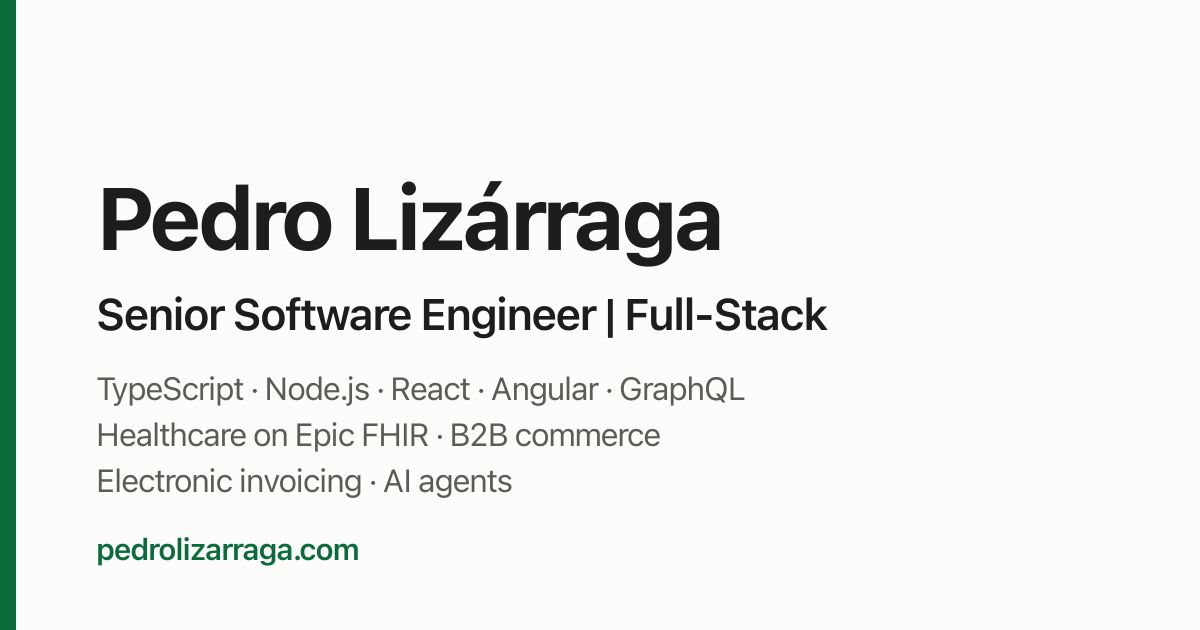
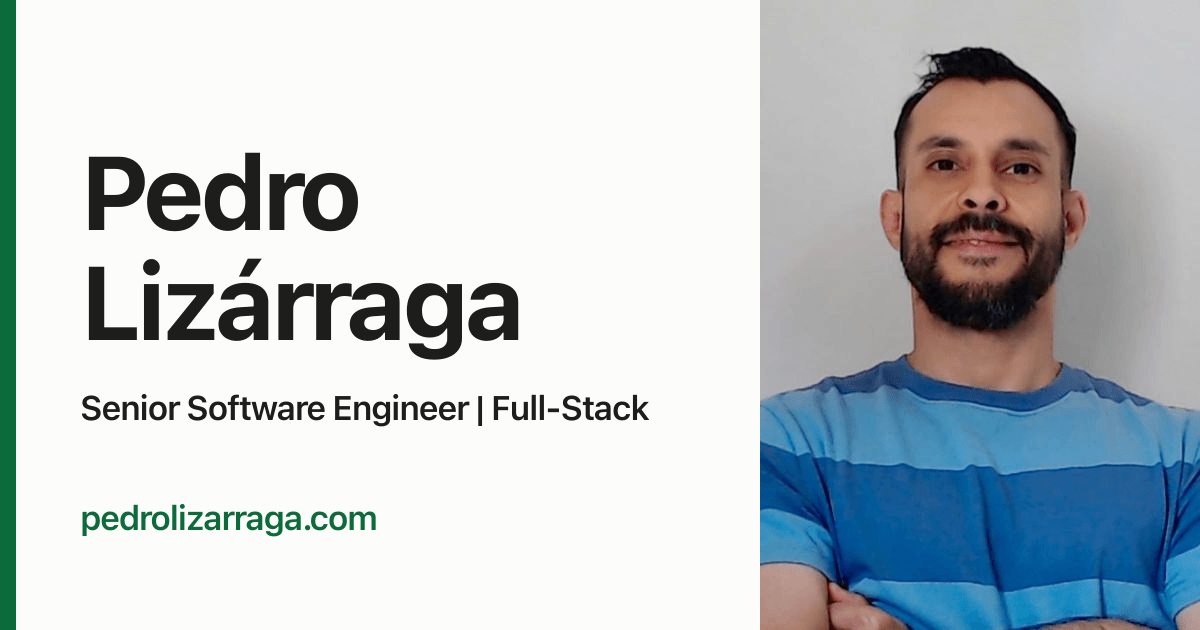
feat(seo): add a portrait photo to the Open Graph image

diff --git a/src/lib/site.ts b/src/lib/site.ts
@@ -12,7 +12,7 @@ export const OG_IMAGE = {
   path: '/og.png',
   width: 1200,
   height: 630,
-  alt: 'Pedro Lizárraga, Senior Software Engineer | Full-Stack',
+  alt: 'Photo of Pedro Lizárraga beside the name and Headline: Senior Software Engineer | Full-Stack',
 } as const;
 
 /** Turns a site-relative path into an absolute URL on the production domain. */

diff --git a/README.md b/README.md
@@ -73,7 +73,7 @@ Pedro Lizárraga's personal-brand website: who he is, what he has built, and how
 | `pnpm check:a11y` | Runs axe-core on every page in `dist/`, in light and dark mode at desktop and phone widths, and fails on any WCAG 2.2 A or AA violation, including color contrast |
 | `pnpm preview` | Builds and serves `dist/` with `wrangler dev`, the local Workers runtime |
 | `pnpm run deploy` | Builds and deploys to production (see [Deployment](#deployment)) |
-| `pnpm og-image` | Regenerates `public/og.png` after a change to the name, Headline, Differentiators, or Domains |
+| `pnpm og-image` | Regenerates `public/og.png` after a change to the name, Headline, or photo (`scripts/og-photo.jpg`) |
 | `pnpm icons` | Regenerates `public/favicon.ico` and `public/apple-touch-icon.png` from `public/favicon.svg` |
 
 `pnpm build` writes eight HTML pages plus the files for crawlers and LLMs:
@@ -107,7 +107,7 @@ Every change to the site's text follows these rules. Terms in bold are defined i
 ```text
 personal-website/
 ├── public/                # Copied to dist/ as is: _headers, favicons, og.png, CV PDF
-├── scripts/               # og-image.mjs (public/og.png), icons.mjs (favicon.ico, apple-touch-icon.png), check-dist.mjs and check-a11y.mjs (check dist/ after each build)
+├── scripts/               # og-image.mjs and og-photo.jpg (public/og.png), icons.mjs (favicon.ico, apple-touch-icon.png), check-dist.mjs and check-a11y.mjs (check dist/ after each build)
 ├── src/
 │   ├── pages/             # Routes only, plus robots.txt, llms.txt, and the .md copies
 │   ├── layouts/           # BaseLayout (meta tags, canonical URL, JSON-LD), SiteHeader, SiteFooter
